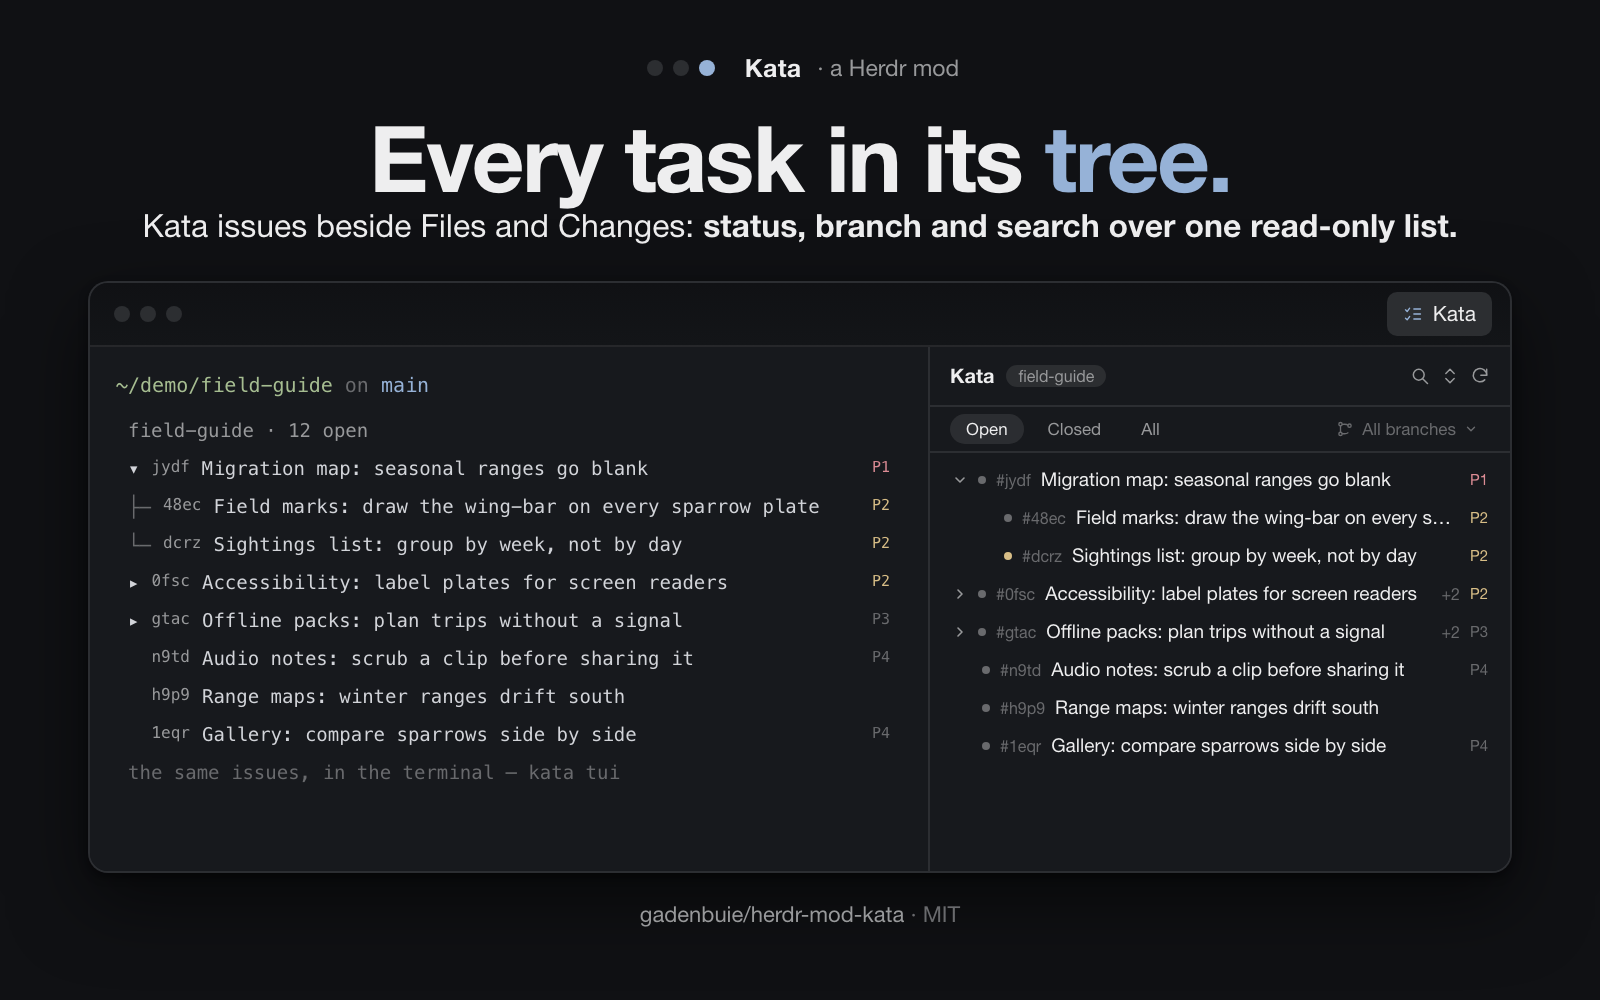
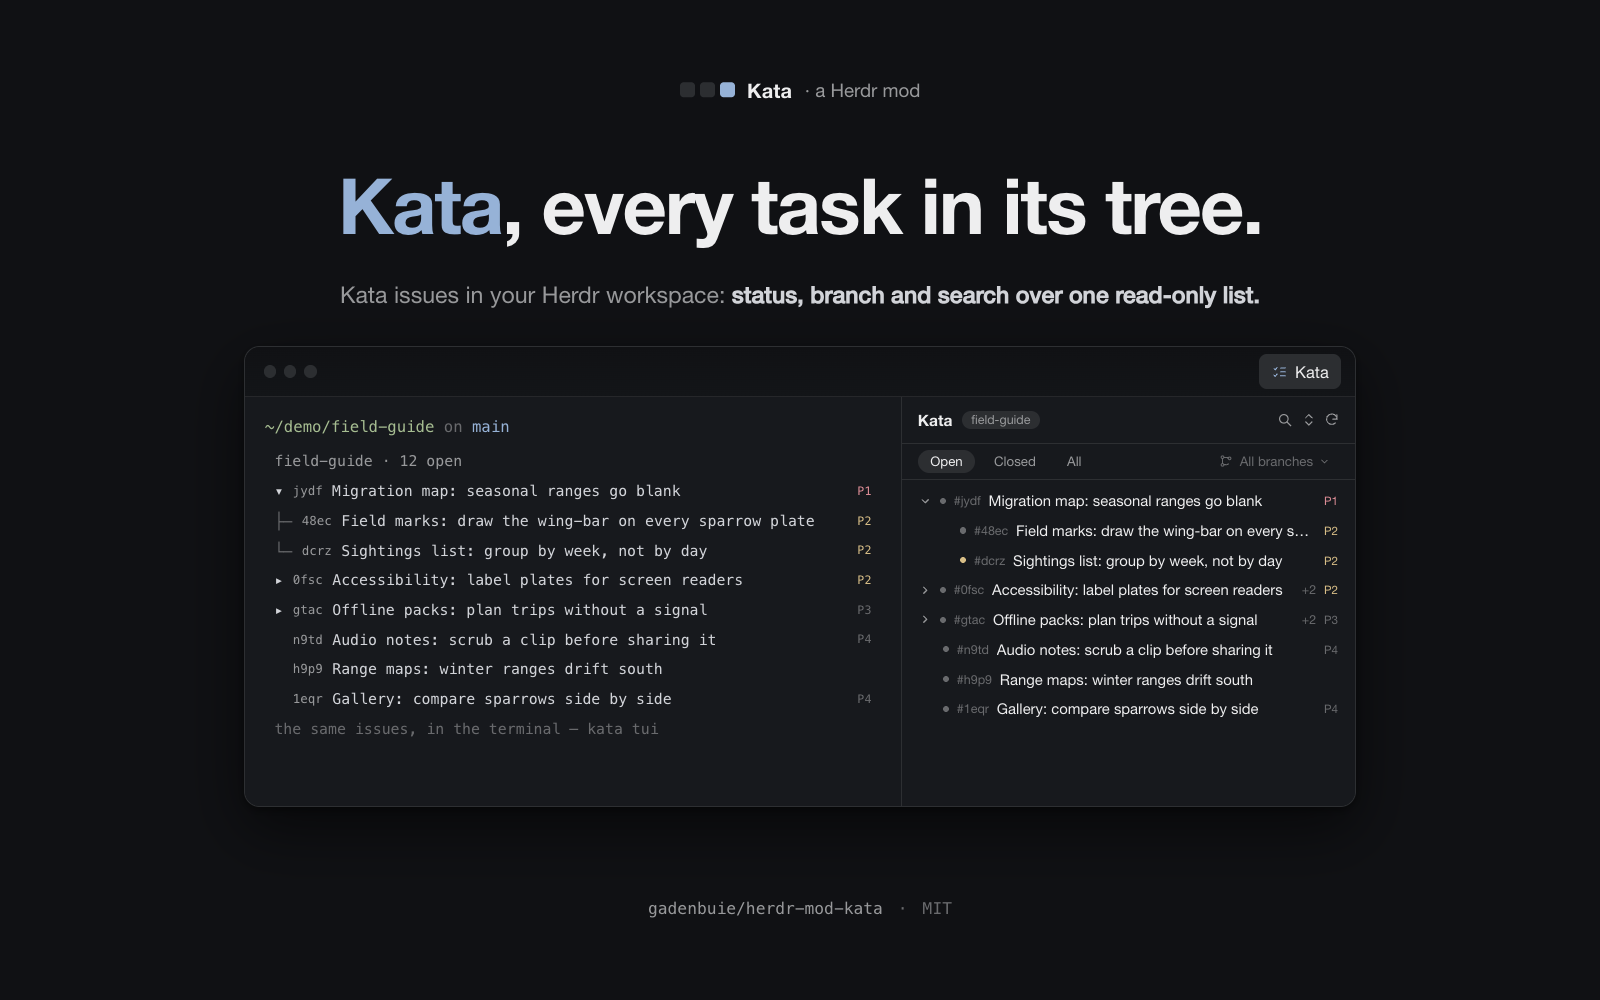
kata: restage the preview on the plannotator ad's grid
Same 1280×800 stage, hero type scale, wordmark, and monospace footer
slug as herdr-mod-plannotator, with the headline leading on the mod's
name in accent: "Kata, every task in its tree." The window mock is
zoomed 1.25× to hold the new scale, the panel landing at its real
368 px width. Also fix the pitch's invalid <p.pitch> tag, and add a
Makefile with a make preview target that renders the PNG from the
HTML (1280×800 at 1.25× device scale, shipping at 1600×1000).

diff --git a/assets/preview.html b/assets/preview.html
@@ -23,7 +23,7 @@
     --done: #76a8ff;
   }
   * { margin: 0; padding: 0; box-sizing: border-box; }
-  html, body { width: 800px; height: 500px; overflow: hidden; }
+  html, body { width: 1280px; height: 800px; overflow: hidden; }
   body {
     background: var(--chrome);
     color: var(--fg);
@@ -32,37 +32,36 @@
     display: flex;
     flex-direction: column;
     align-items: center;
-    padding: 26px 44px 22px;
+    padding: 60px 72px 66px;
   }
-  .wordmark { display: flex; align-items: center; gap: 8px; height: 16px; }
-  .wordmark .dots { display: flex; gap: 5px; }
-  .wordmark .dots i { width: 8px; height: 8px; border-radius: 50%; background: var(--raised); }
-  .wordmark .dots i:last-child { background: var(--accent); }
-  .wordmark .name { font-size: 12.5px; font-weight: 650; letter-spacing: 0.01em; color: var(--fg); }
-  .wordmark .tag { font-size: 11.5px; color: var(--muted); }
+  .wordmark { display: flex; align-items: center; gap: 10px; height: 24px; }
+  .wordmark svg { display: block; }
+  .wordmark .name { font-size: 16px; font-weight: 650; letter-spacing: 0.01em; color: var(--fg); }
+  .wordmark .tag { font-size: 15px; color: var(--muted); }
   h1 {
-    margin-top: 13px;
-    font-size: 46px;
+    margin-top: 48px;
+    font-size: 62px;
     font-weight: 700;
     letter-spacing: -0.025em;
     line-height: 1.04;
     text-align: center;
   }
-  h1 .tree { color: var(--accent); }
+  h1 .accent { color: var(--accent); }
   p.pitch {
-    margin-top: 10px;
-    max-width: 620px;
-    font-size: 13.5px;
-    line-height: 1.4;
+    margin-top: 26px;
+    max-width: 900px;
+    font-size: 18.5px;
+    line-height: 1.45;
     color: var(--muted);
     text-align: center;
-    text-wrap: balance;
   }
   p.pitch strong { color: var(--tfg); font-weight: 550; }
 
   /* ── the window mock: the Kata tab, and the panel it opens ── */
+  /* zoomed 1.25× to hold the plannotator stage's type scale */
   .window {
-    margin-top: 18px;
+    margin-top: 22px;
+    zoom: 1.25;
     width: 712px;
     border-radius: 10px;
     background: var(--surface);
@@ -190,23 +189,29 @@
   .mark { width: 4px; height: 4px; border-radius: 99px; background: var(--dim); flex: none; }
   .mark.blocked { background: var(--amber); }
 
-  .caption {
-    margin-top: 14px;
-    font-size: 11px;
-    color: var(--dim);
-    text-align: center;
+  footer {
+    margin-top: auto;
+    display: flex; align-items: center; gap: 12px;
+    font-family: ui-monospace, "SF Mono", Menlo, monospace;
+    font-size: 13px; color: var(--dim);
   }
-  .caption .repo { color: var(--muted); }
+  footer .slug { color: var(--muted); }
 </style>
 </head>
 <body>
   <div class="wordmark">
-    <span class="dots"><i></i><i></i><i></i></span>
+    <svg width="44" height="14" viewBox="0 0 44 14" aria-hidden="true">
+      <rect x="0" y="1" width="12" height="12" rx="3" fill="#2c2e31"/>
+      <rect x="16" y="1" width="12" height="12" rx="3" fill="#2c2e31"/>
+      <rect x="32" y="1" width="12" height="12" rx="3" fill="#96b2d7"/>
+    </svg>
     <span class="name">Kata</span>
     <span class="tag">· a Herdr mod</span>
   </div>
-  <h1>Every task in its <span class="tree">tree.</span></h1>
-  <p.pitch>Kata issues beside Files and Changes: <strong>status, branch and search over one read-only list.</strong></p.pitch>
+
+  <h1><span class="accent">Kata</span>, every task in its tree.</h1>
+
+  <p class="pitch">Kata issues in your Herdr workspace: <strong>status, branch and search over one read-only list.</strong></p>
 
   <div class="window">
     <div class="tabbar">
@@ -312,6 +317,6 @@
     </div>
   </div>
 
-  <p class="caption"><span class="repo">gadenbuie/herdr-mod-kata</span> · MIT</p>
+  <footer><span class="slug">gadenbuie/herdr-mod-kata</span><span>·</span><span>MIT</span></footer>
 </body>
 </html>
